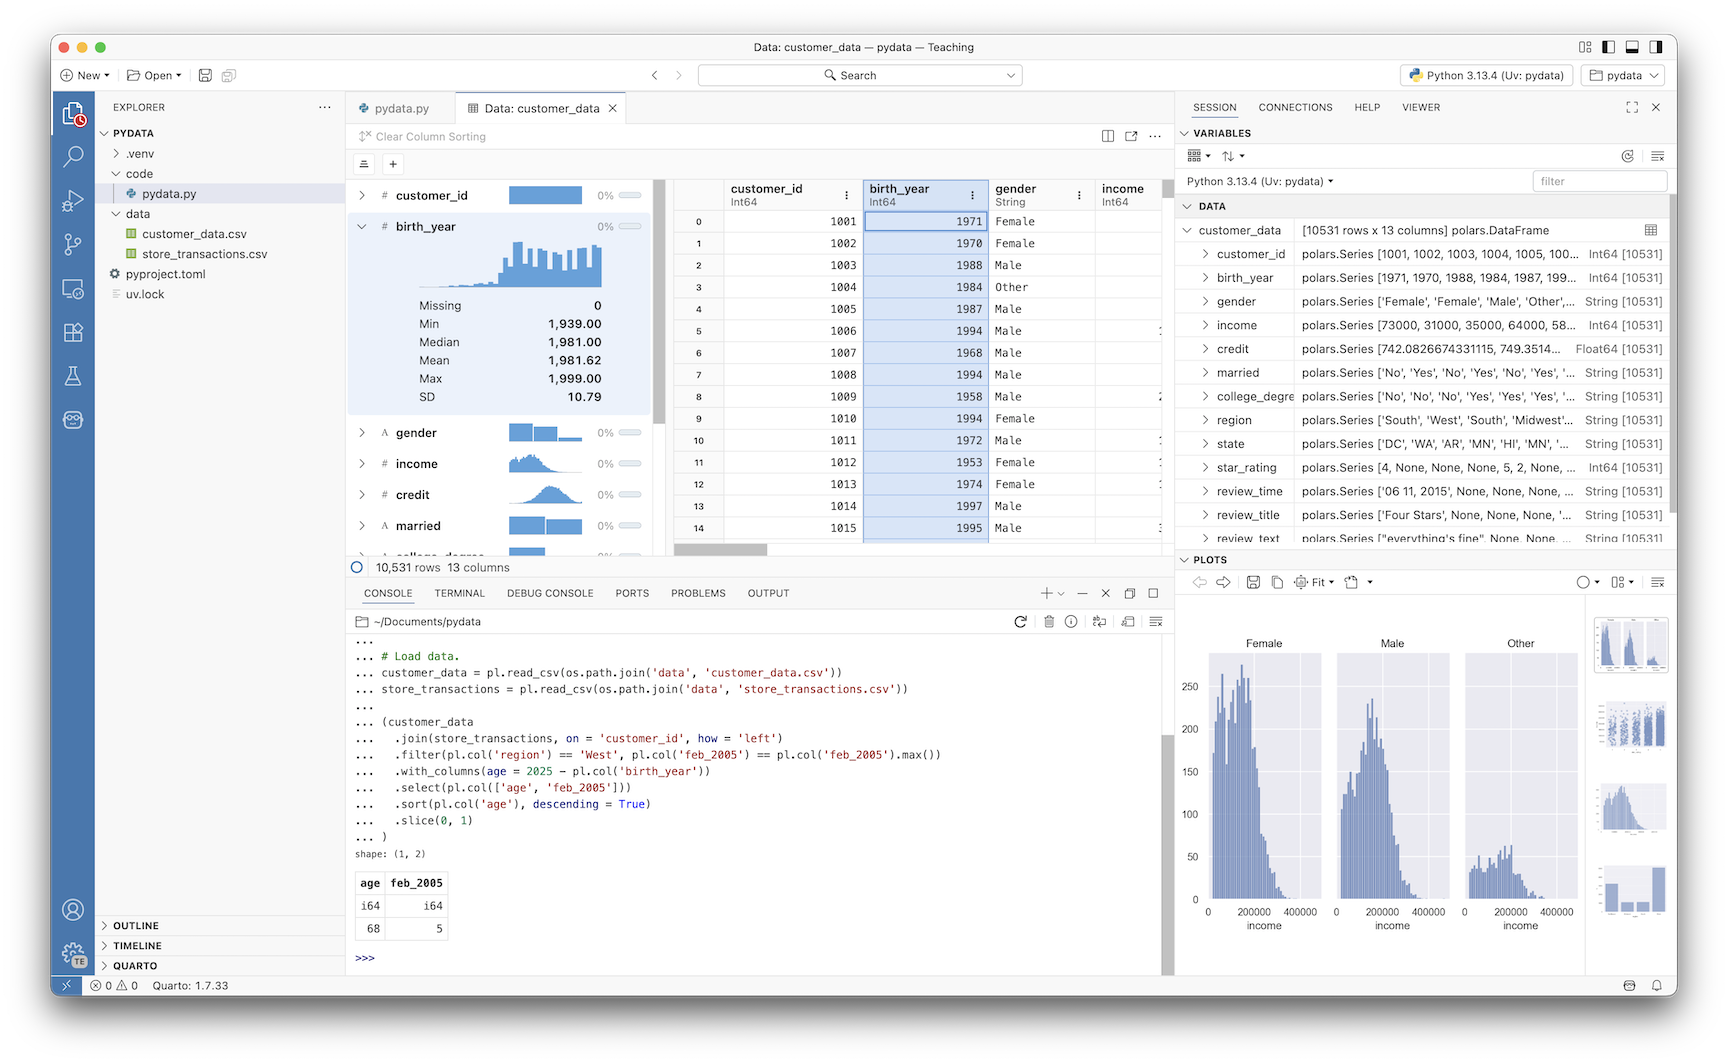
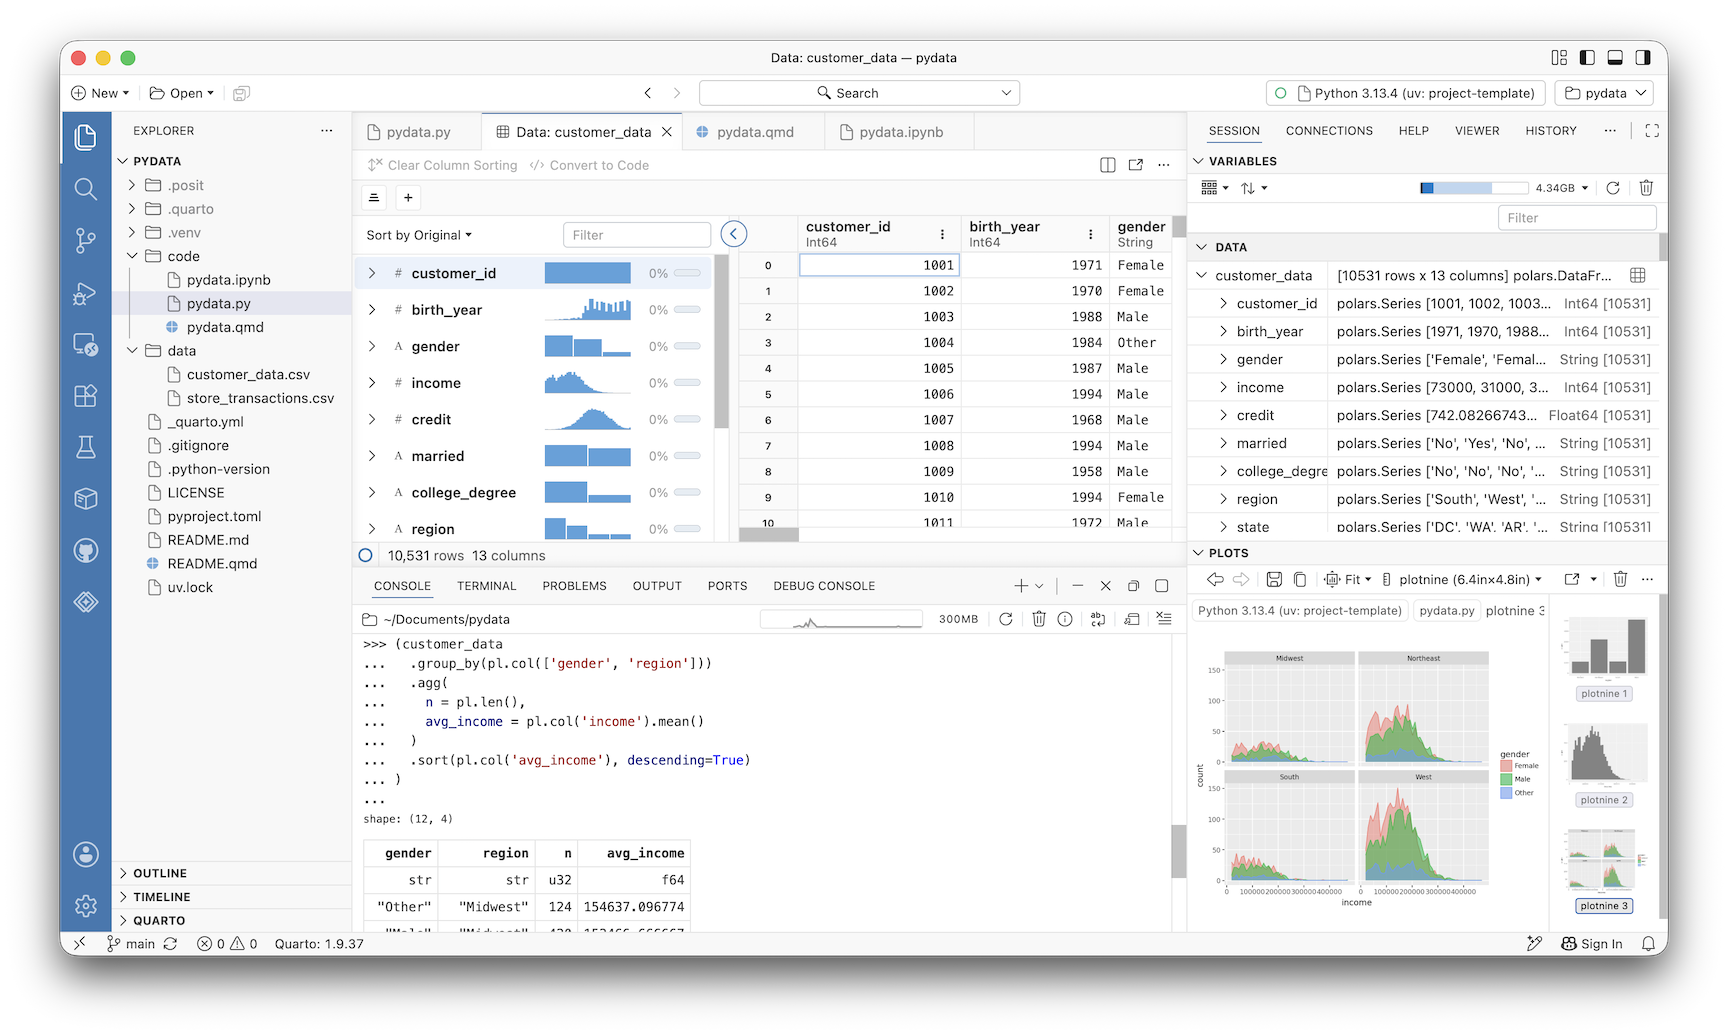
New screenshot for final draft

diff --git a/README.md b/README.md
@@ -409,9 +409,6 @@ Inline Output: Enabled.) Unlike Jupyter notebooks, the code blocks in
 Quarto documents are flat text Python scripts so we can still use
 Cmd/Ctrl + Enter to run individual lines of code within a code block.
 
-<img src="figures/quarto-02_running-code.png" style="width:90.0%"
-data-fig-align="center" />
-
 The most important difference is that the notebook format of a Quarto
 document is simply a means to an end. Quarto can take whatever we
 produce within the document and render it into a Word document,
@@ -426,7 +423,7 @@ Preview or use Cmd/Ctrl + Shift + K) into its specified format and a
 preview of the rendered document will appear in Positron’s viewer (in
 the right pane by default).
 
-<img src="figures/quarto-03_qmd-to-pdf.png" style="width:90.0%"
+<img src="figures/quarto-02_qmd-to-pdf.png" style="width:90.0%"
 data-fig-align="center" />
 
 If you are using Python within the Quarto document, Quarto will render
@@ -436,9 +433,6 @@ notebook](https://quarto.org/docs/get-started/hello/jupyter.html) to
 render into all of these different outputs. For example, we can render
 `pydata.ipynb` into a PDF using `quarto render pydata.ipynb --to typst`
 in the terminal.
-
-<img src="figures/quarto-04_ipynb-to-pdf.png" style="width:90.0%"
-data-fig-align="center" />
 
 Quarto’s [documentation](https://quarto.org/docs/guide/) is
 comprehensive. The following sections highlight some of the essential
@@ -455,7 +449,7 @@ Quarto. For GitHub documents, use `format: gfm`. When you render your
 Quarto document, it will create a separate markdown document using
 **GitHub Flavored Markdown** that GitHub can parse as HTML.
 
-<img src="figures/quarto-05_qmd-to-gfm.png" style="width:90.0%"
+<img src="figures/quarto-03_qmd-to-gfm.png" style="width:90.0%"
 data-fig-align="center" />
 
 ### Markdown
@@ -612,7 +606,7 @@ Once you have created or have access to a project repository, you can
 repository, though the clone isn’t just a copy of the folder. Git still
 works in the background keeping track of changes and managing the
 version control. After connecting Positron and GitHub, open the command
-palatte in Positron, use the `Git: Clone` command, and select the
+palette in Positron, use the `Git: Clone` command, and select the
 project repository you’d like to clone.
 
 <img src="figures/github-03_clone.png" style="width:90.0%"
@@ -624,9 +618,6 @@ directory in Positron and run `uv run` in the terminal. This will
 install the correct `.python-version` if you don’t have it, create the
 hidden `/.venv` project library, and install the correct versions of the
 needed libraries as specified in the `uv.lock` file.
-
-<img src="figures/github-04_uv-run.png" style="width:90.0%"
-data-fig-align="center" />
 
 You only need to clone the project repository one time. Please note that
 any of the files and folders that aren’t pushed to GitHub can be created
@@ -656,7 +647,7 @@ you should do when starting to work is navigate to the branch you want
 to work in. Use `Git: Checkout to...` via the command palette to select
 the correct branch.
 
-<img src="figures/github-05_checkout-to.png" style="width:90.0%"
+<img src="figures/github-04_checkout-to.png" style="width:90.0%"
 data-fig-align="center" />
 
 ### Stage, Commit, and Sync
@@ -670,7 +661,7 @@ your collaborators?
 If you click on source control from the vertical activity bar, you’ll
 see all of the files you’ve changed.
 
-<img src="figures/github-06_source-control.png" style="width:90.0%"
+<img src="figures/github-05_source-control.png" style="width:90.0%"
 data-fig-align="center" />
 
 You first need to **stage** these changes using the plus sign next to
@@ -685,20 +676,24 @@ Once the files are staged, you need to write a message that describes
 what you’ve done with the staged files. Like the branch names, these
 should be short and descriptive, like “Cleaned up errors to the final
 model.” It is the branch names and these commit messages that provide a
-record of the work we have done. With a descriptive message, you are
-ready to
-[*commit*](https://code.visualstudio.com/docs/sourcecontrol/intro-to-git#_staging-and-committing-code-changes).
+record of the work we have done.
+
+<img src="figures/github-07_commit-message.png" style="width:90.0%"
+data-fig-align="center" />
+
+With a descriptive message, you are ready to
+[**commit**](https://code.visualstudio.com/docs/sourcecontrol/intro-to-git#_staging-and-committing-code-changes).
 This is like saving a file, except we can save multiple files all at
 once associated with the commit message we’ve written.
 
-<img src="figures/github-07_commit.png" style="width:90.0%"
+<img src="figures/github-08_commit.png" style="width:90.0%"
 data-fig-align="center" />
 
 These changes are now archived as part of the version control on our
 cloned project repository. To share them with our collaborators, we need
 to **sync** them with the repository on GitHub.
 
-<img src="figures/github-08_sync.png" style="width:90.0%"
+<img src="figures/github-09_sync.png" style="width:90.0%"
 data-fig-align="center" />
 
 Technically, sync executes a **push** of our changes to the repository
